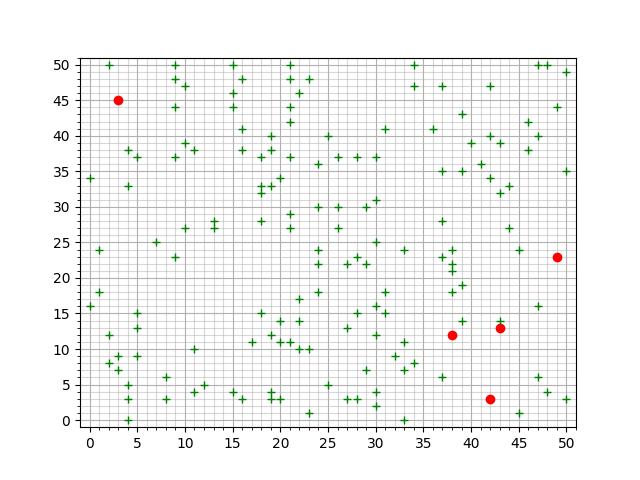
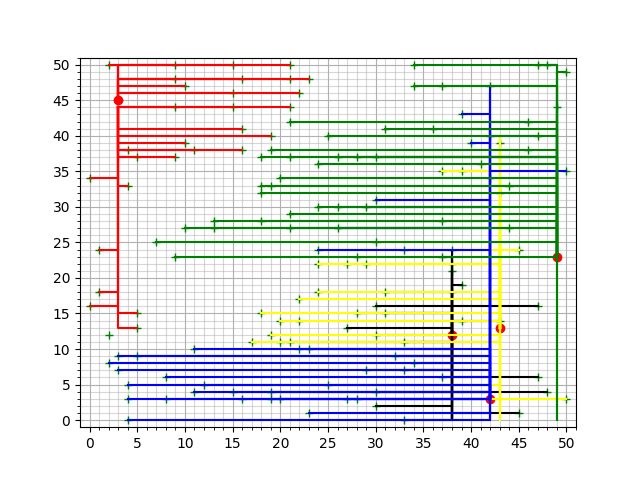
added cables to visualisation and fixed some errors

Changed region(s): [[0.1562, 0.125, 0.875, 0.875]]

diff --git a/code/classes/house.py b/code/classes/house.py
@@ -37,24 +37,29 @@ class House():
         by = bat_y
         hx = house_x
         hy = house_y
+        set_y = False
         self.cable_points.append(f"{hx},{hy}")
         for i in range(distance):
             if bx > hx:
                 cx = hx+1
                 hx = hx+1
+                cy = hy
             if bx < hx:
                 cx = hx-1
                 hx = hx-1
+                cy = hy
             if bx == hx:
                 cx = hx
-            if by > hy:
-                cy = hy+1
-                hy = hy+1
-            if by < hy:
-                cy = hy-1
-                hy = hy-1
-            if by == hy:
-                cy = hy
+                if set_y:
+                    if by > hy:
+                        cy = hy+1
+                        hy = hy+1
+                    if by < hy:
+                        cy = hy-1
+                        hy = hy-1
+                    if by == hy:
+                        cy = hy
+                set_y = True        
             self.cable_points.append(f"{cx},{cy}") 
             i = i+1
 

diff --git a/code/algorithms/random.py b/code/algorithms/random.py
@@ -18,13 +18,15 @@ def Random(district):
                 if battery.get_total_input() + house.output <= battery.capacity:
                     district.make_connections(battery, house)
                     house.connected = True
-                    distance = (battery.x_grid - house.x_grid + (battery.y_grid - house.y_grid))
-                    house.set_cable(abs(distance))
+                    distance = (abs(battery.x_grid - house.x_grid) + abs(battery.y_grid - house.y_grid))
+                    house.set_cable(distance)
                     battery.set_total_input(house.output)
+                    house.construct_cable(battery.x_grid, battery.y_grid, house.x_grid, house.y_grid, house.cable)
                     break
             if house.connected == False:
                 for house in district.houses:
                     house.connected = False
+                    house.cable_points = []
                 for battery in batteries:
                     battery.set_total_input(0)
                     battery.connected_houses = []    

diff --git a/code/visualisation/visualisation.py b/code/visualisation/visualisation.py
@@ -25,6 +25,22 @@ def make_district(district):
     ax.minorticks_on()
     ax.tick_params(which='minor', grid_alpha=0.5)
     ax.grid(True, which='both')
+
+    all_colors = ['black', 'yellow', 'blue', 'green', 'red']
+    i = 0
+    for battery in district.batteries:
+        color = all_colors[i]
+        for house in battery.connected_houses:
+            x_values = []
+            y_values = []
+            for point in house.cable_points:
+                cxy = point.split(",")
+                cx = int(cxy[0])
+                cy = int(cxy[1])
+                x_values.append(cx)
+                y_values.append(cy)
+            plt.plot(x_values, y_values, color=color)
+        i = i+1    
     
     visual_district = fig.savefig('visual_district.png')   
 

diff --git a/main.py b/main.py
@@ -34,17 +34,17 @@ if  __name__ == "__main__":
     houses = test_district.houses
 
    
-    # visual_district = make_district(test_district)
-    lowest = 3000
-    for i in range(10000):
-        if i%1000000 == 0:
-            print(i)
-        possibility = Random(test_district)
-        if possibility < lowest:
-            lowest = possibility
+    
+    possibility = nearestHouse(test_district)
+    visual_district = make_district(test_district)
     
  
-    print(lowest)
-
+    print(possibility)
 
     
+    for battery in batteries:
+        print(battery.location)
+        for house in battery.connected_houses:
+            print(house.location)
+            print(house.cable)
+            print(house.cable_points)
